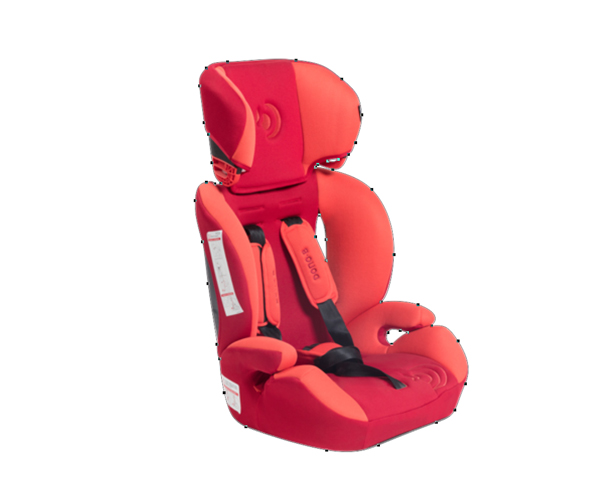
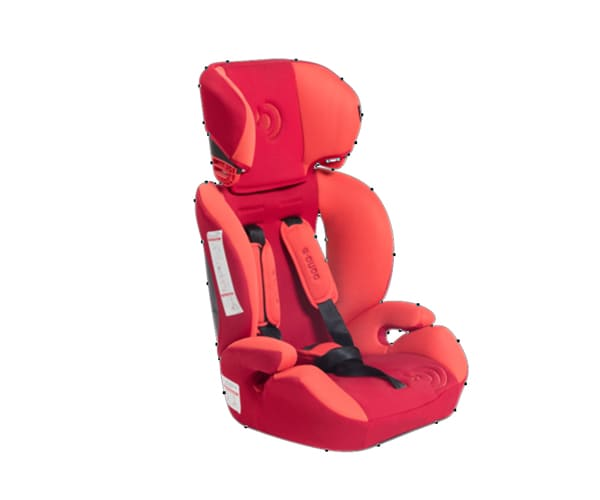
Image optimization changes

diff --git a/assets/css/style.css b/assets/css/style.css
@@ -117,9 +117,9 @@ h1, h2, h3, h4, h5, h6 {
   background: rgba(42, 44, 57);
 }
 
-#header.header-transparent {
-  /*background: transparent;*/
-}
+/* #header.header-transparent {
+  background: transparent;
+} */
 
 #header.header-scrolled {
   background: rgba(42, 44, 57);
@@ -428,14 +428,14 @@ h1, h2, h3, h4, h5, h6 {
 }
 .slider_one
 {
-  background-image: url('../img/background/Untitled-1.png');
+  background-image: url('../img/background/Untitled-1.webp');
   background-repeat: no-repeat;
   background-size: cover;
   background-position: center;
 }
 .slider_two
 {
-  background-image: url('../img/background/Untitled-3.png');
+  background-image: url('../img/background/Untitled-3.webp');
   background-repeat: no-repeat;
   background-size: cover;
   background-position: center;
@@ -443,7 +443,7 @@ h1, h2, h3, h4, h5, h6 {
 }
 .slider_three
 {
-  background-image: url('../img/background/Untitled-4.png');
+  background-image: url('../img/background/Untitled-4.webp');
   background-repeat: no-repeat;
   background-size: cover;
   background-position: center;
@@ -1009,6 +1009,13 @@ section {
   color: #ef6603;
 }
 
+@media only screen and (max-width: 567px) {
+  .portfolio #portfolio-flters {
+    display: grid;
+    grid-template-columns: 1fr 1fr;
+  }
+}
+
 .portfolio .portfolio-item {
   margin-bottom: 30px;
 }
@@ -1017,9 +1024,9 @@ section {
   overflow: hidden;
 }
 
-.portfolio .portfolio-item .portfolio-img img {
-  /* transition: all 0.8s ease-in-out; */
-}
+/* .portfolio .portfolio-item .portfolio-img img {
+  transition: all 0.8s ease-in-out;
+} */
 
 .portfolio .portfolio-item .portfolio-info {
   opacity: 0;
@@ -1298,9 +1305,9 @@ section {
   overflow: hidden;
 }
 
-.price-img img{
-  /* width: 100%; */
-}
+/* .price-img img{
+  width: 100%;
+} */
 
 @media only screen and (max-width: 768px) {
   .price-img {

diff --git a/resources/views/users/index.blade.php b/resources/views/users/index.blade.php
@@ -324,7 +324,7 @@
                             <!--</div>-->
                         </div>
                         <div class="benifits_div py-5 text-center">
-                            <img src="{{ asset('assets/img/background/benefitits.png')}}" width="80%" alt="benifits-round-img">
+                            <img src="{{ asset('assets/img/background/benefitits.webp')}}" width="80%" alt="benifits-round-img">
                         </div>
                         <div class="">
                             <p class="font-weight-bold benefit_title"><i class="fas fa-lock"></i> 100% Secure:</p>
@@ -641,7 +641,7 @@
                         <h2 class="font-weight-bold">How We Work For Quality Photo Editing</h2>
                     </div>
                     <div class="mt-3" data-aos="fade-right">
-                        <img src="{{ asset('assets/img/background/pc-flow.png')}}" width="80%" alt="our-work-flow">
+                        <img src="{{ asset('assets/img/background/pc-flow.webp')}}" width="80%" alt="our-work-flow">
                     </div>
 
                 </div>
@@ -747,7 +747,8 @@
                 </div>
 
             </div>
-        </section><!-- End Portfolio Section -->
+        </section>
+        <!-- End Portfolio Section -->
 
         <!-- ======= Testimonials Section ======= -->
         <section id="testimonials" class="testimonials">
@@ -909,7 +910,7 @@
                                     </li>
 
                                 </ul>
-                                <div class="btn-wrap">
+                                <div class="btn-wrap d-flex justify-content-between">
                                     <a href="{{ route('pricePolicy') }}" class="btn btn-secondary rounded">More
                                         Policy
                                     </a>
@@ -955,7 +956,7 @@
                                     </li>
 
                                 </ul>
-                                <div class="btn-wrap">
+                                <div class="btn-wrap d-flex justify-content-between">
                                     <a href="{{ route('pricePolicy') }}" class="btn btn-secondary rounded">More
                                         Policy
                                     </a>
@@ -990,27 +991,27 @@
                 <div class="row">
 
                     <div class="col-lg-2 col-md-4 col-6 d-flex align-items-center justify-content-center">
-                        <img src="{{ asset('assets/img/clients/google.png')}}" class="img-fluid" alt="client-google">
+                        <img src="{{ asset('assets/img/clients/google.webp')}}" class="img-fluid" alt="client-google">
                     </div>
 
                     <div class="col-lg-2 col-md-4 col-6 d-flex align-items-center justify-content-center">
-                        <img src="{{ asset('assets/img/clients/aliexpress.png')}}" class="img-fluid" alt="client-aliexpress">
+                        <img src="{{ asset('assets/img/clients/aliexpress.webp')}}" class="img-fluid" alt="client-aliexpress">
                     </div>
 
                     <div class="col-lg-2 col-md-4 col-6 d-flex align-items-center justify-content-center">
-                        <img src="{{ asset('assets/img/clients/sears.png')}}" class="img-fluid" alt="client-sears">
+                        <img src="{{ asset('assets/img/clients/sears.webp')}}" class="img-fluid" alt="client-sears">
                     </div>
 
                     <div class="col-lg-2 col-md-4 col-6 d-flex align-items-center justify-content-center">
-                        <img src="{{ asset('assets/img/clients/ozon.png')}}" class="img-fluid" alt="client-ozon">
+                        <img src="{{ asset('assets/img/clients/ozon.webp')}}" class="img-fluid" alt="client-ozon">
                     </div>
 
                     <div class="col-lg-2 col-md-4 col-6 d-flex align-items-center justify-content-center">
-                        <img src="{{ asset('assets/img/clients/walmart.png')}}" class="img-fluid" alt="client-walmart">
+                        <img src="{{ asset('assets/img/clients/walmart.webp')}}" class="img-fluid" alt="client-walmart">
                     </div>
 
                     <div class="col-lg-2 col-md-4 col-6 d-flex align-items-center justify-content-center">
-                        <img src="{{ asset('assets/img/clients/amazon.png')}}" class="img-fluid" alt="client-amazon">
+                        <img src="{{ asset('assets/img/clients/amazon.webp')}}" class="img-fluid" alt="client-amazon">
                     </div>
 
                 </div>

diff --git a/resources/views/users/include/header.blade.php b/resources/views/users/include/header.blade.php
@@ -7,7 +7,7 @@
               <div class="logo mr-auto">
         {{--        <h1 class="text-light"><a href="{{ route('index')}}">PDE</a></h1>--}}
                 <!-- Uncomment below if you prefer to use an image logo -->
-                  <a href="{{ route('index')}}"><img src="{{ asset('assets/img/logo.png')}}" alt="" class="img-fluid"></a>
+                  <a href="{{ route('index')}}"><img src="{{ asset('assets/img/logo.webp')}}" alt="" class="img-fluid"></a>
               </div>
         
               <nav class="nav-menu d-none d-lg-block">
